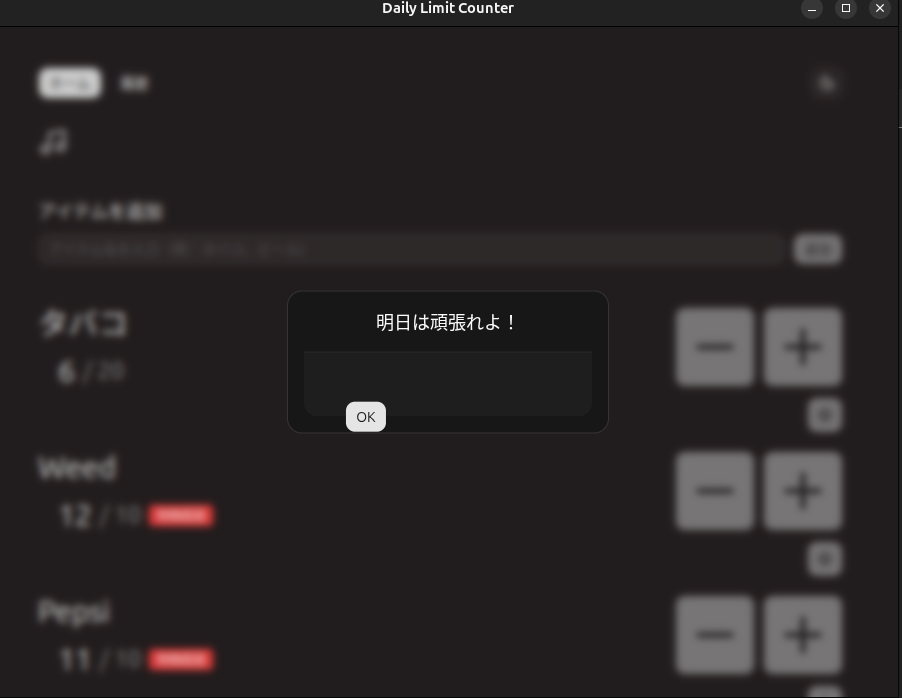
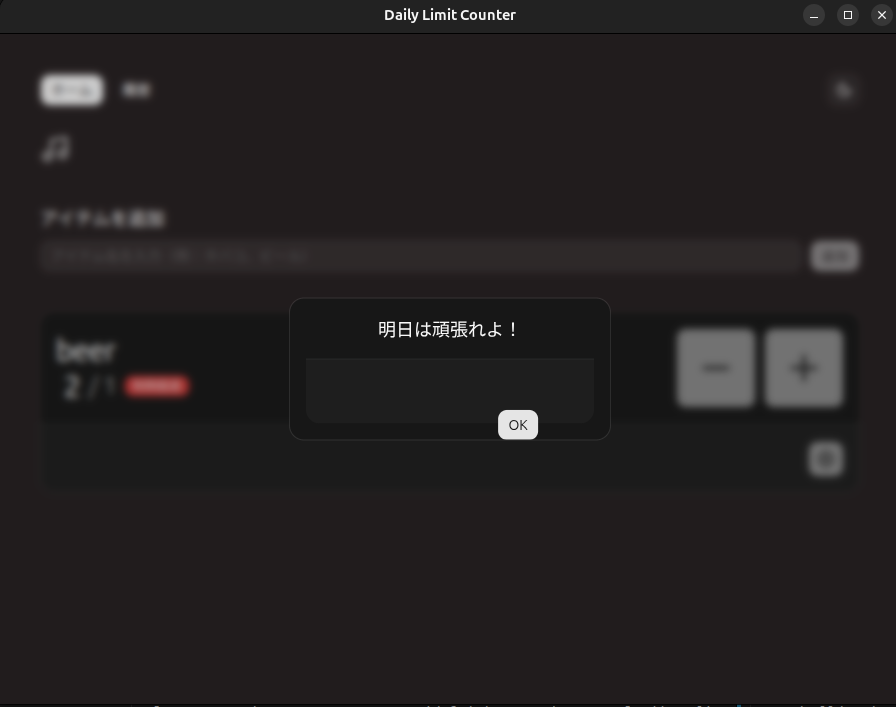
s

diff --git a/RELEASE.md b/RELEASE.md
@@ -1,0 +1,11 @@
+Electron-vite 配布方法
+
+- A : ローカルで各OSに対応したものをビルド
+- B : Github ActionsでTag/Releaseをトリガーにして配布
+
+今回はB
+- snap : snap-storeにCLIからリリース
+- 他 : Github ActionsでReleaseに配布
+
+snapを分ける理由
+- Github Actionsでsnap-store関係のエラーが出てわからず

diff --git a/README.md b/README.md
@@ -19,6 +19,8 @@
 Linux / Windows
 
 - snap
+
 [![Get it from the Snap Store](https://snapcraft.io/en/dark/install.svg)](https://snapcraft.io/limit-counter)
+
 - deb , zip
-  - [Releases](./releases) page.
+  - [Releases](https://github.com/Mr-Pontaman/electron-limit-counter/releases) Page

diff --git a/ELECTRON.md b/ELECTRON.md
@@ -1,4 +1,4 @@
-# Basic
+## Basic
 
 - renderer (React側):
   - ブラウザはnodeは触れない。preloadの窓口（window.electronAPI.saveFile()）経由で叩く
